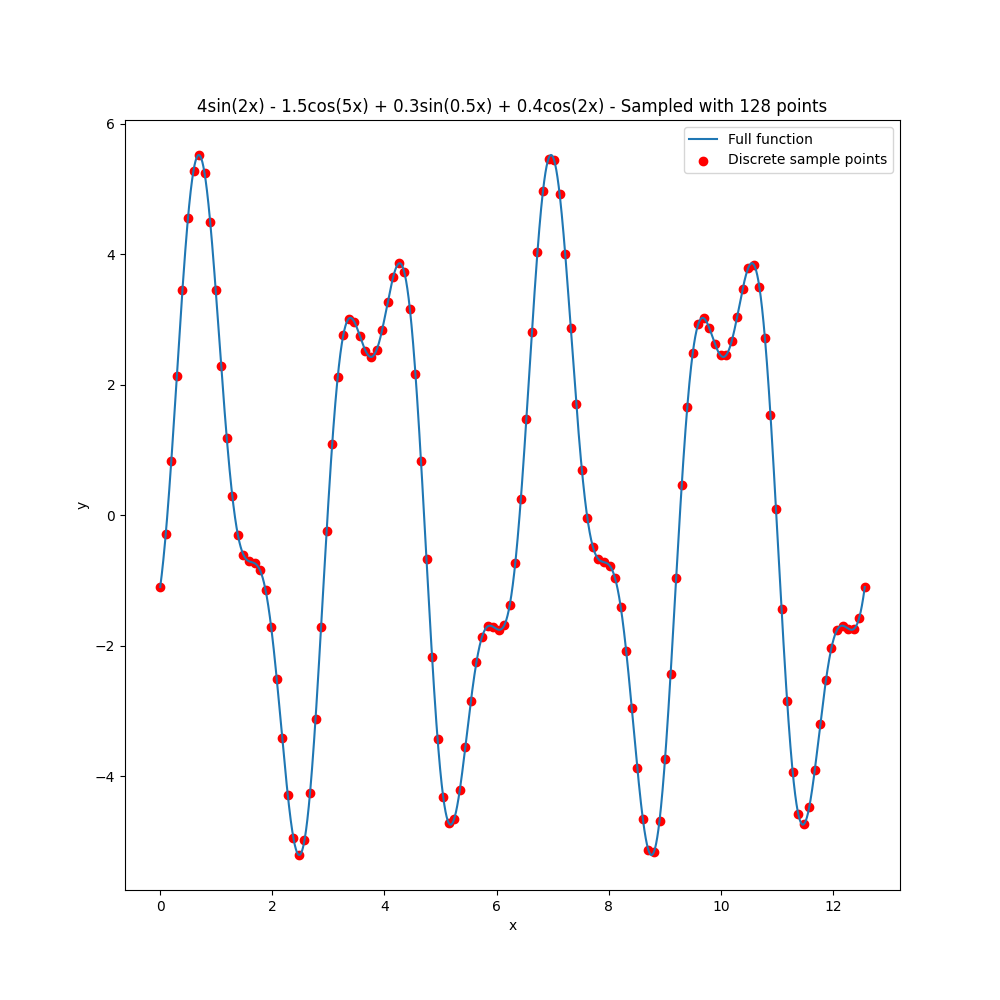
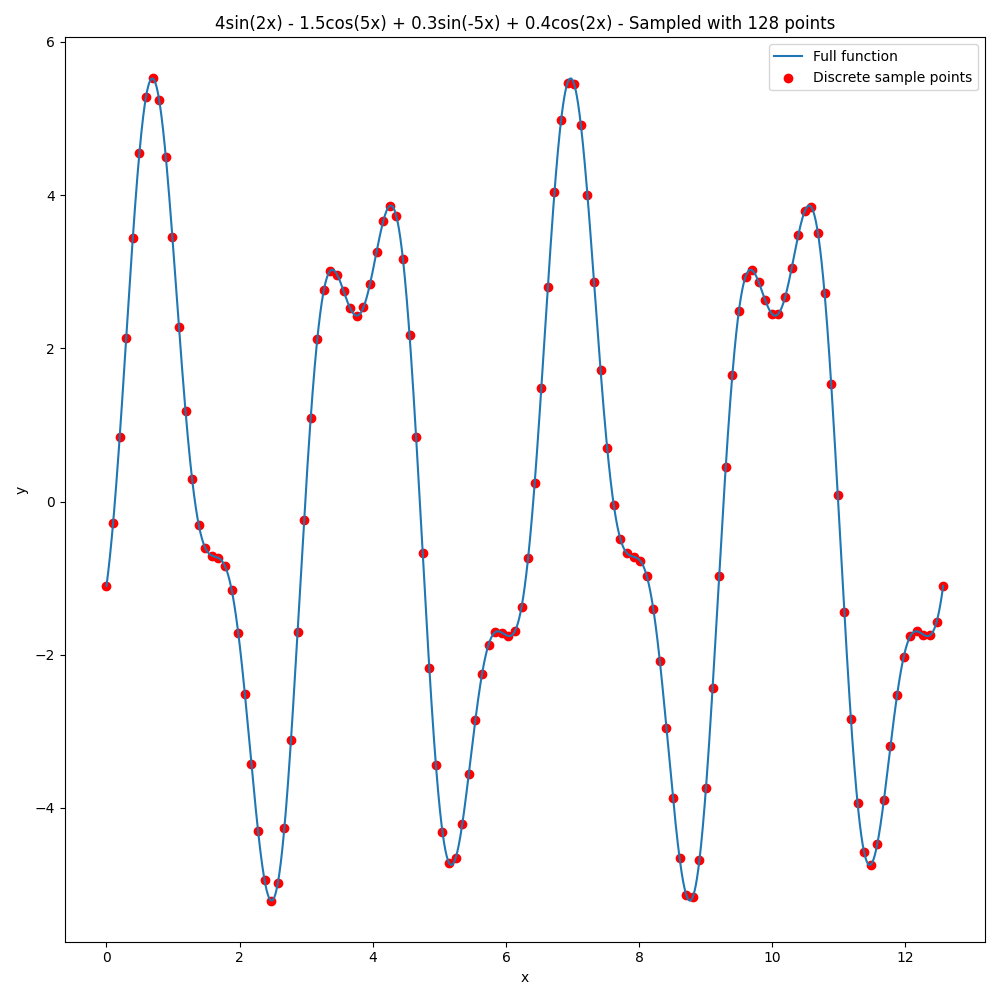
Modified FFT example slightly w new images

diff --git a/fft_simple_example.py b/fft_simple_example.py
@@ -45,6 +45,7 @@ plt.legend()
 plt.xlabel('x')
 plt.ylabel('y')
 plt.title('4sin(2x) - 1.5cos(5x) + 0.3sin(-5x) + 0.4cos(2x) - Sampled with 128 points')
+plt.tight_layout()
 plt.savefig(f'{N}sample_fft_func.png')
 plt.show()
 
@@ -58,9 +59,12 @@ mags = magnitudes(fft_result)
 freqs = np.linspace(0, N/sample_rate - 1, N)
 # Let's just look at the first 20 points
 plt.figure(figsize=(10, 10))
-plt.stem(freqs[:20], mags[:20], label='Average magnitudes')
+plt.stem(freqs[:20], mags[:20], label='Average amplitudes')
+plt.xlabel('Frequency value')
+plt.ylabel('Amplitude')
 plt.legend()
 plt.title('Average amplitude of each frequency value from the FFT')
+plt.tight_layout()
 plt.savefig(f'{N}sample_fft_stems.png')
 plt.show()
 
@@ -85,6 +89,7 @@ plt.legend()
 plt.xlabel('x')
 plt.ylabel('y')
 plt.title('4sin(2x) - 1.5cos(5x) + 0.3sin(-5x) + 0.4cos(2x) - Sampled with 128 noisy points')
+plt.tight_layout()
 plt.savefig(f'{N}sample_noisy_fft_func.png')
 plt.show()
 
@@ -97,8 +102,11 @@ offset_mags = magnitudes(fft_result_offset)
 # Let's just look at the first 20 points
 plt.figure(figsize=(10, 10))
 plt.stem(freqs[:20], offset_mags[:20], label='Average amplitudes')
+plt.xlabel('Frequency value')
+plt.ylabel('Amplitude')
 plt.legend()
 plt.title('Average amplitude of each frequency value from the noisy FFT')
+plt.tight_layout()
 plt.savefig(f'{N}sample_noisy_fft_stems.png')
 plt.show()
 
@@ -121,6 +129,7 @@ plt.legend()
 plt.xlabel('x')
 plt.ylabel('y')
 plt.title('4sin(2x) - 1.5cos(5x) + 0.3sin(-5x) + 0.4cos(2x) - Inverse FFT')
+plt.tight_layout()
 plt.savefig(f'{N}sample_inverse_fft_func.png')
 plt.show()
 
@@ -162,7 +171,10 @@ padded_mags = magnitudes(padded_fft_result)
 
 plt.figure(figsize=(10, 10))
 plt.stem(padded_freqs[:20], padded_mags[:20], label='Average amplitudes')
+plt.xlabel('Frequency value')
+plt.ylabel('Amplitude')
 plt.legend()
 plt.title('Average amplitude of each frequency value from the padded FFT')
+plt.tight_layout()
 plt.savefig(f'{N}sample_padded_fft_stems.png')
 plt.show()
